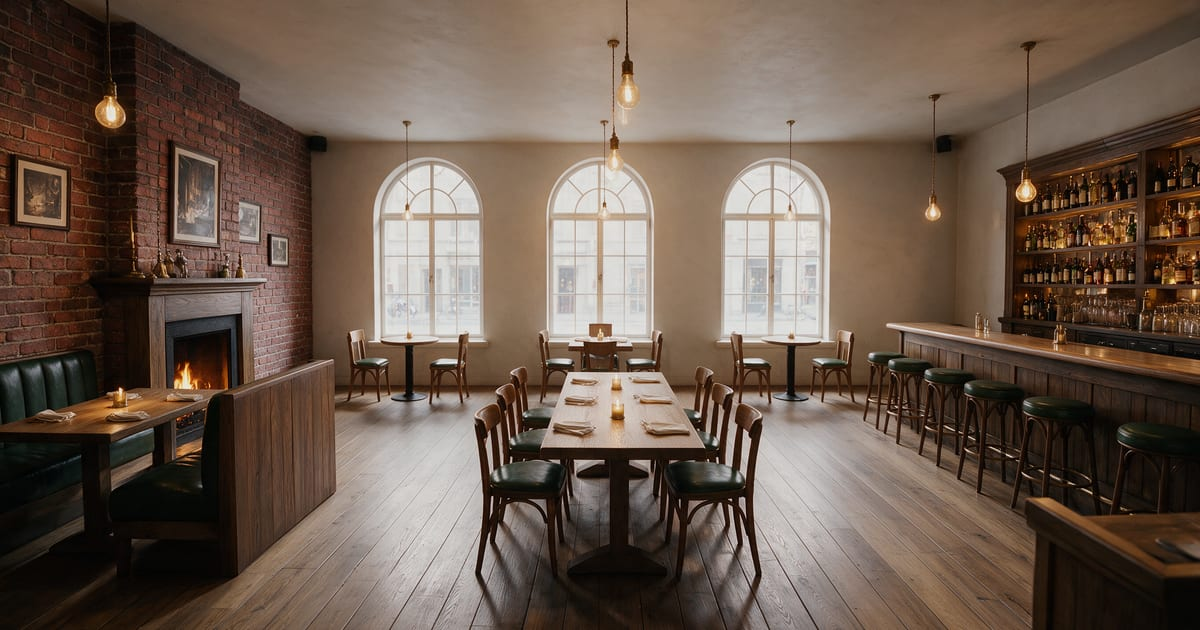
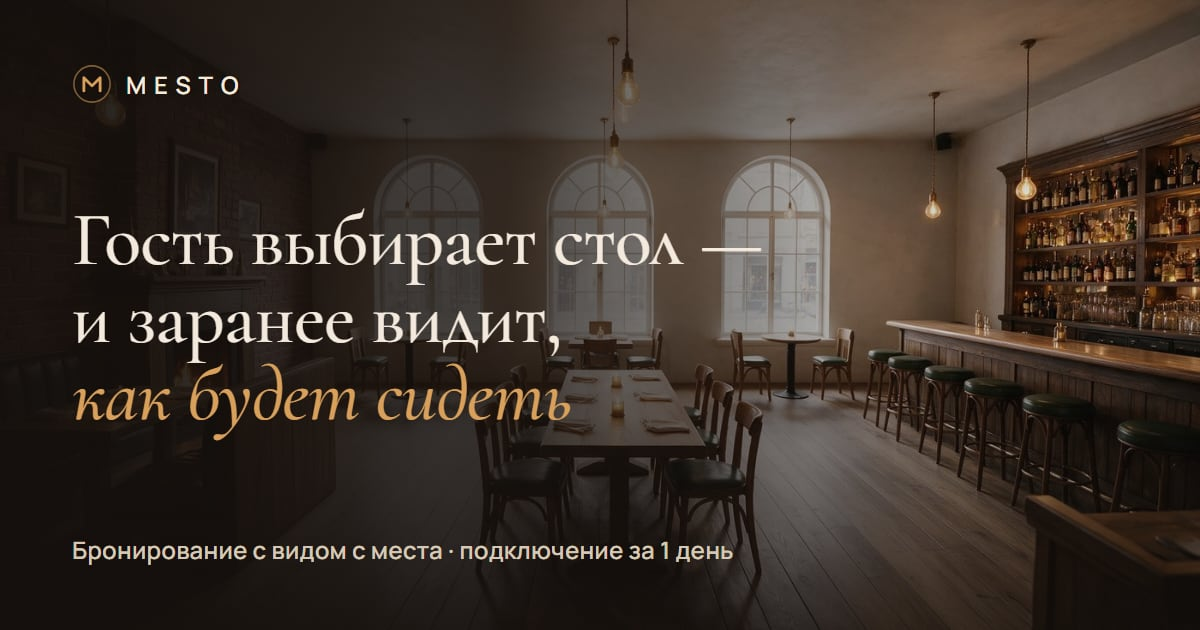
Этап 9: SEO и превью — OG/Twitter, OG-картинка 1200×630, иконки, JSON-LD, robots.txt, sitemap

diff --git a/PLAN.md b/PLAN.md
@@ -12,7 +12,7 @@
 - [x] 6. Видео: скрипт сжатия, карточки, модальный плеер
 - [x] 7. Полировка (+ удалить /styleguide)
 - [x] 8. Адаптив, доступность, Lighthouse
-- [ ] 9. SEO и превью
+- [x] 9. SEO и превью
 - [ ] 10. Деплой на GitHub Pages и проверка живого URL
 
 ## Распределение текста по секциям
